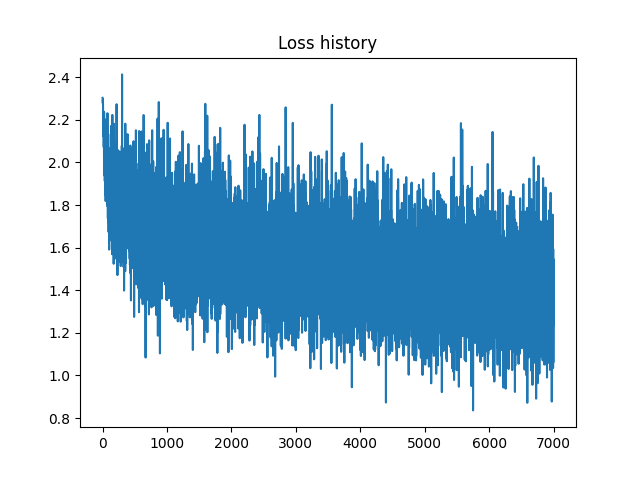
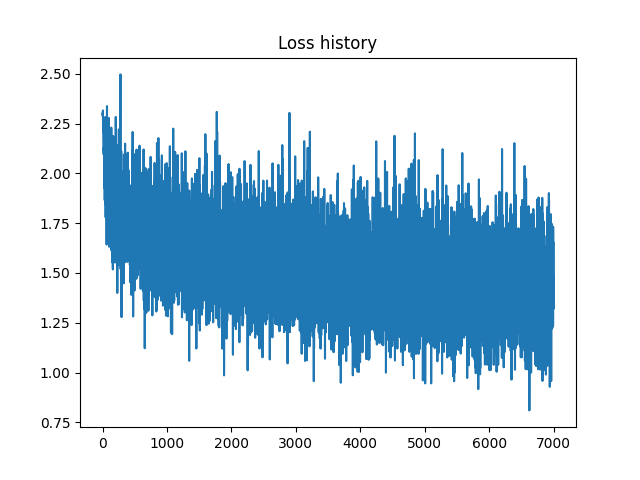
Seminar4 complete!

diff --git a/src/seminar4.py b/src/seminar4.py
@@ -5,7 +5,6 @@ from copy import deepcopy
 from pathlib import Path
 from seminar3 import *
 from test_utils import get_preprocessed_data
-from tqdm import tqdm
 epsilon = 1e-3
 
 
@@ -178,7 +177,7 @@ class NeuralNetwork:
     def fit(self, X, y, learning_rate=1e-3, num_iters=10000, batch_size=4, verbose=True):
         num_classes = np.max(y) + 1
         loss_history = []
-        for it in tqdm(range(num_iters), ncols=150):
+        for it in range(num_iters):
             idxs = np.random.choice(len(X), batch_size)
             X_batch, y_batch = X[idxs], y[idxs]
             # evaluate loss and gradient
@@ -228,7 +227,7 @@ if __name__ == '__main__':
     n_input, n_output, hidden = 3072, 10, 256
     learning_rate = 5e-3
     reg = 0.1
-    num_iters = 5000
+    num_iters = 7000
     batch_size = 32
 
     (x_train, y_train), (x_test, y_test) = get_preprocessed_data(include_bias=False)

diff --git a/output/seminar4/report.md b/output/seminar4/report.md
@@ -1,14 +1,14 @@
 # Training Softmax classifier  
-datetime: 2023-10-21 20:15:30  
-Well done in: 243 seconds  
+datetime: 2023-10-21 21:07:31  
+Well done in: 289 seconds  
 learning_rate = 0.005  
 reg = 0.1  
 num_iters = 7000  
 batch_size = 32  
 
-Final loss: 1.3522356547826964   
-Train accuracy: 0.52706   
-Test accuracy: 0.4894  
+Final loss: 1.6528331355741008   
+Train accuracy: 0.5223   
+Test accuracy: 0.4783  
 
 <img src="weights.png">  
 <br>
